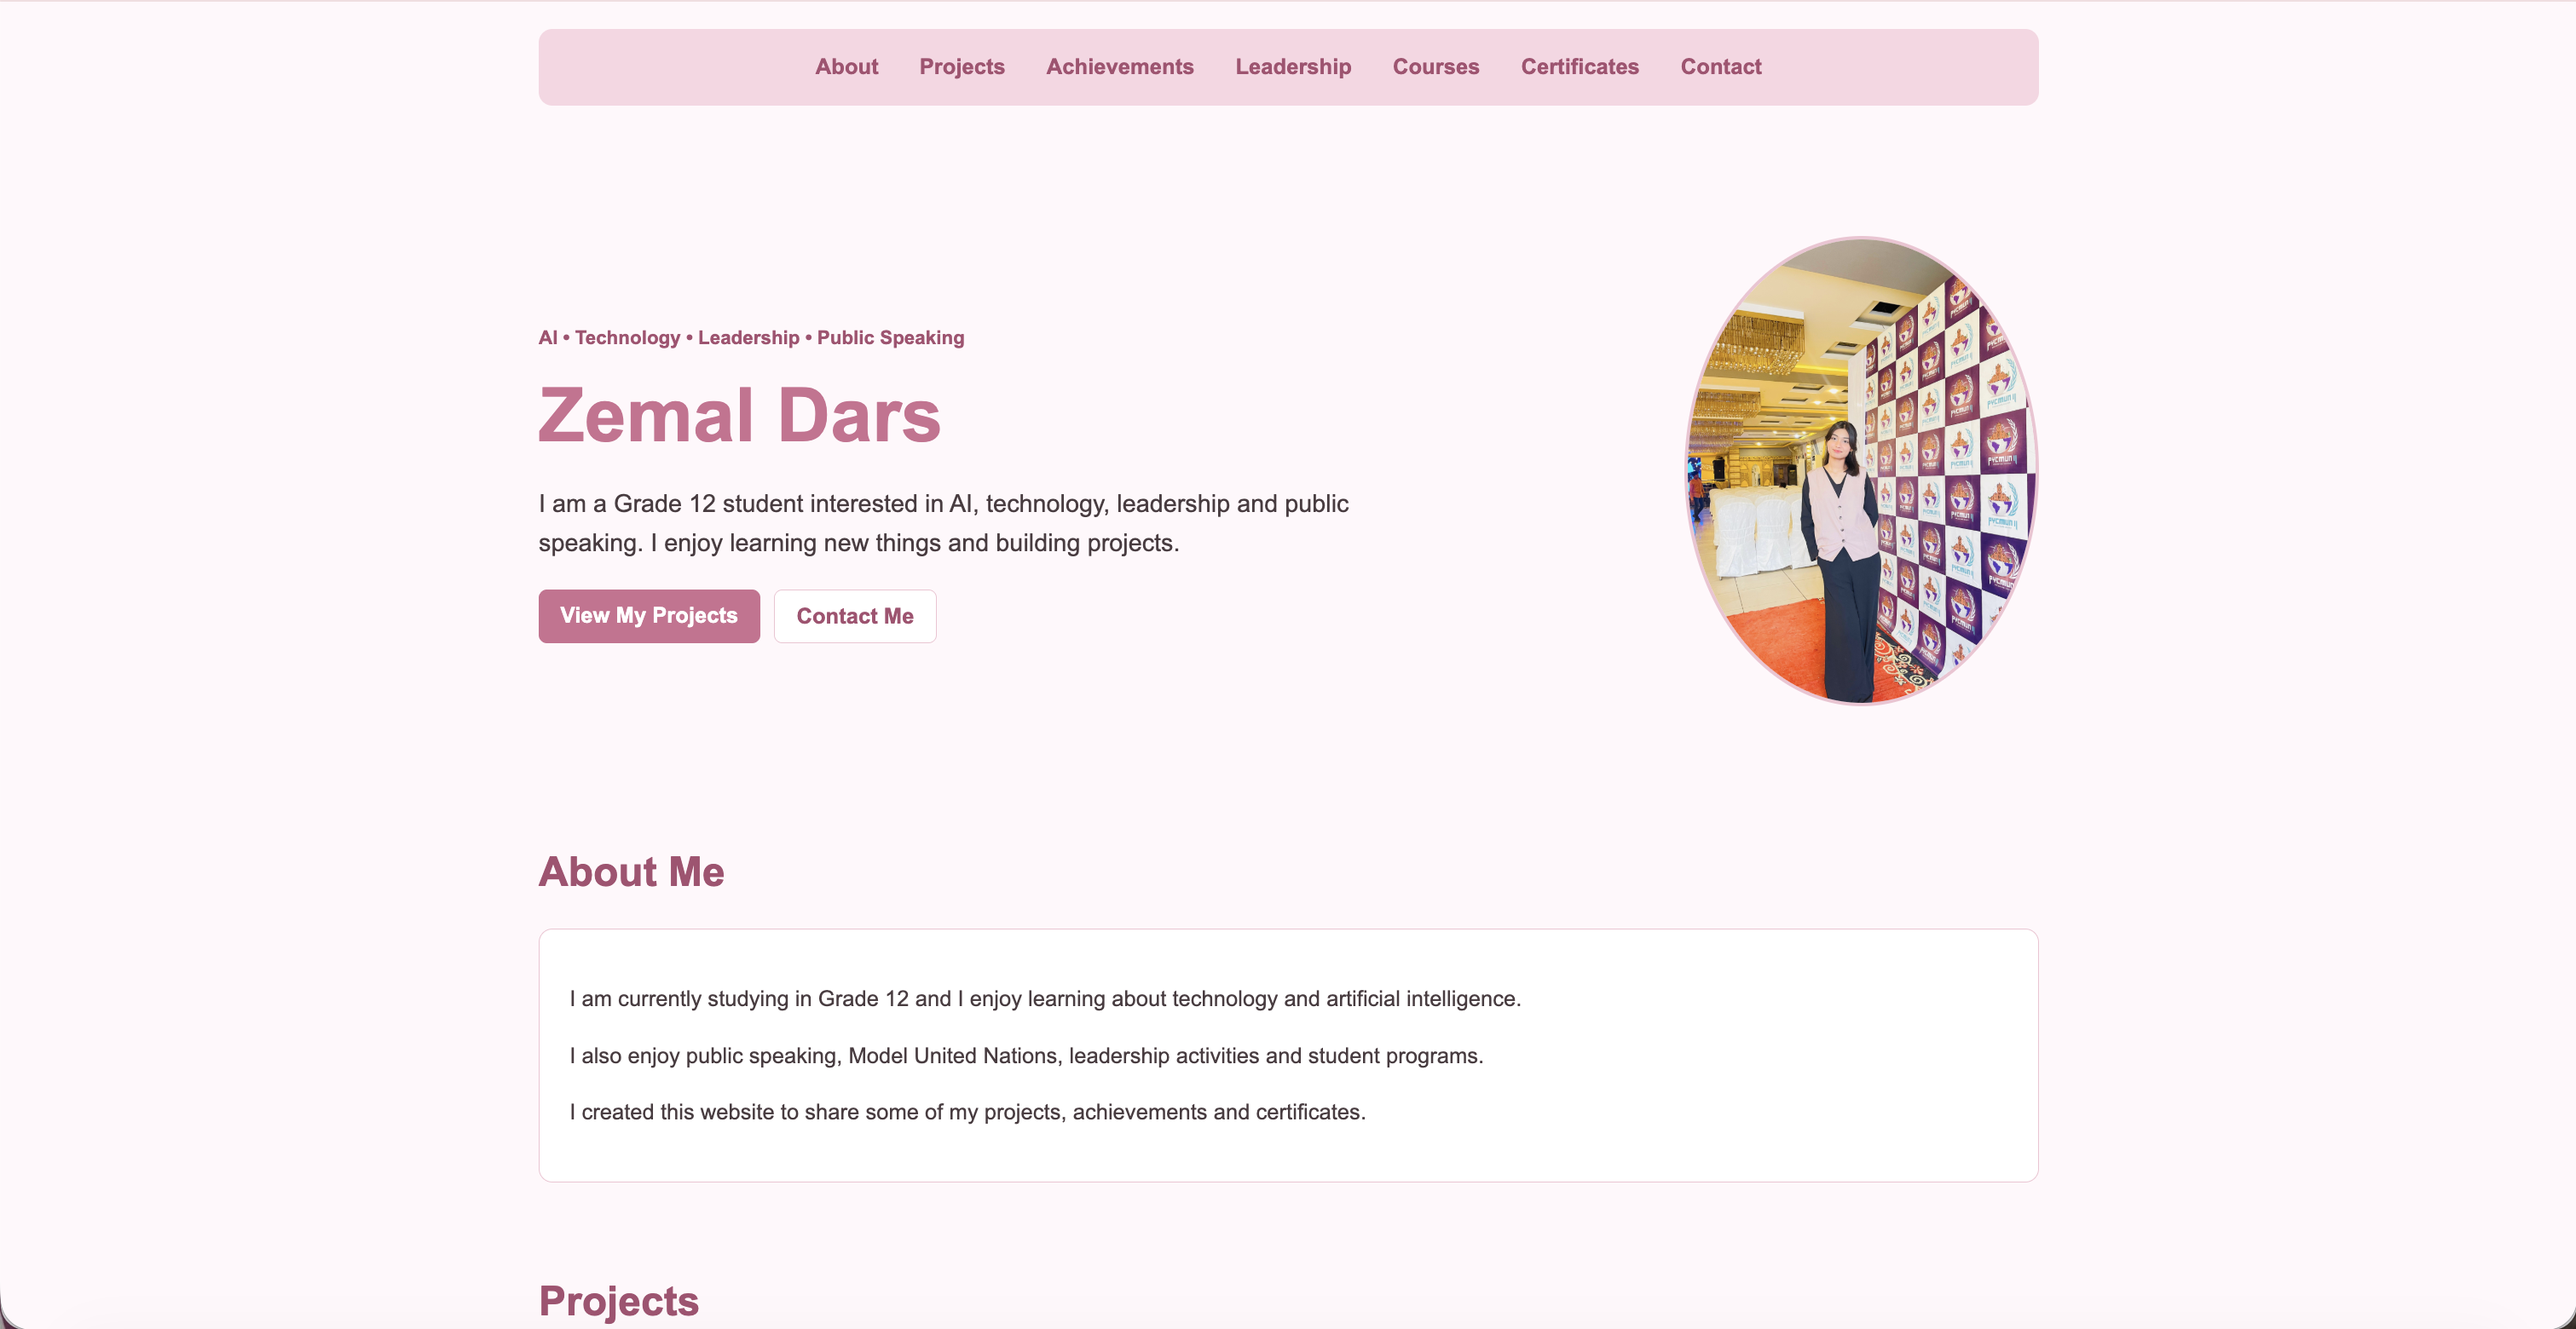
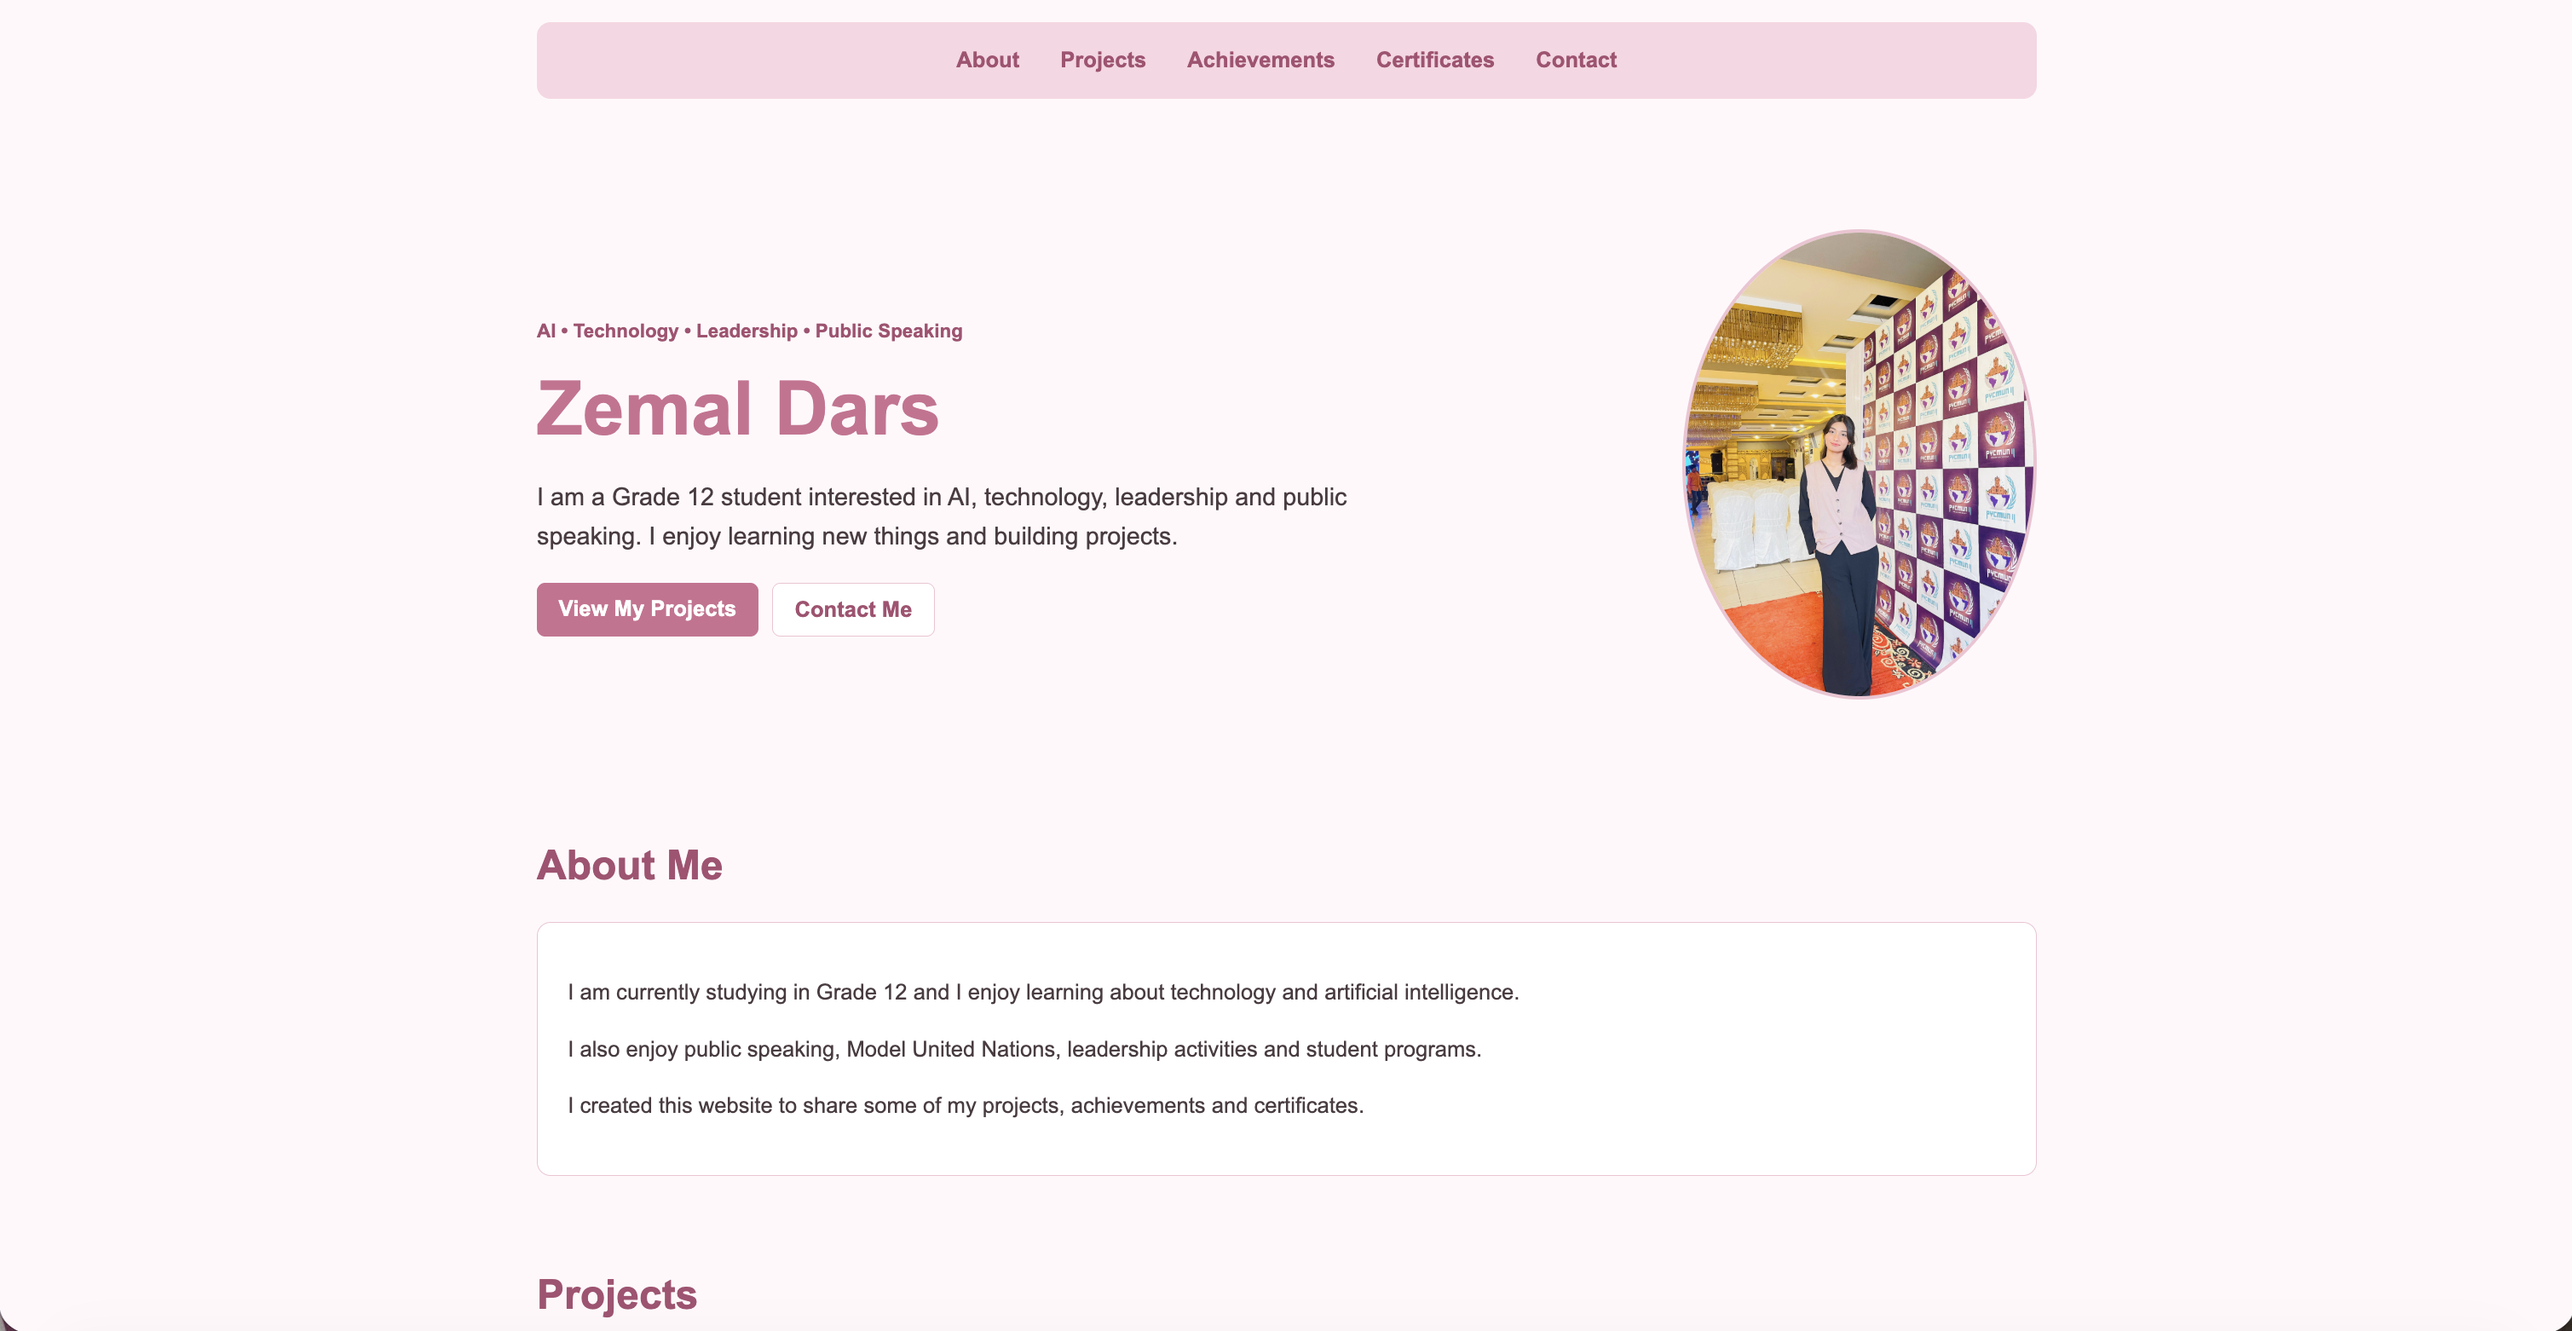
Update README and website preview

diff --git a/README.md b/README.md
@@ -81,25 +81,44 @@ Clone the repository:
 
 ```bash
 git clone https://github.com/zemaldars01-png/zemal-personal-site.git
+```
 
 Open the project folder:
-cd zemal-personal-site
 
-Then open index.html in your browser.
+```bash
+cd zemal-personal-site
+```
+
+Then open `index.html` in your browser.
+
 You can also run a simple local server:
+
+```bash
 python3 -m http.server 8000
+```
 
 Then open:
+
+```text
 http://localhost:8000
+```
 
 No extra packages are required.
-How It Works
+
+## How It Works
+
 HTML is used for the structure and content of the website.
+
 CSS is used for the colors, layout, cards, buttons, images, and responsive design.
+
 I used Flexbox for parts of the layout and CSS Grid for the cards and certificate gallery.
+
 JavaScript is only used for the back-to-top button.
-What I Learned
+
+## What I Learned
+
 While making this project, I learned more about:
+
 - organizing a webpage with HTML
 - styling with CSS
 - using Flexbox and Grid
@@ -107,13 +126,23 @@ While making this project, I learned more about:
 - adding simple JavaScript
 - using Git and GitHub
 - publishing a website with GitHub Pages
+
 I also learned that keeping code simple makes it easier to understand and update later.
-Changes After Feedback
+
+## Changes After Feedback
+
 After receiving feedback, I simplified the CSS and removed unnecessary styling so the code is easier for me to understand and maintain.
+
 I also improved this README so the project is easier to understand and run.
-AI Usage
+
+## AI Usage
+
 I used AI for guidance, explanations, and debugging when I got stuck.
+
 After receiving feedback, I reviewed the project again and simplified the code so I could understand the styling and layout better.
-Credits
+
+## Credits
+
 Built by Zemal Dars.
+
 Made as part of the Hack Club Stardance Challenge.
